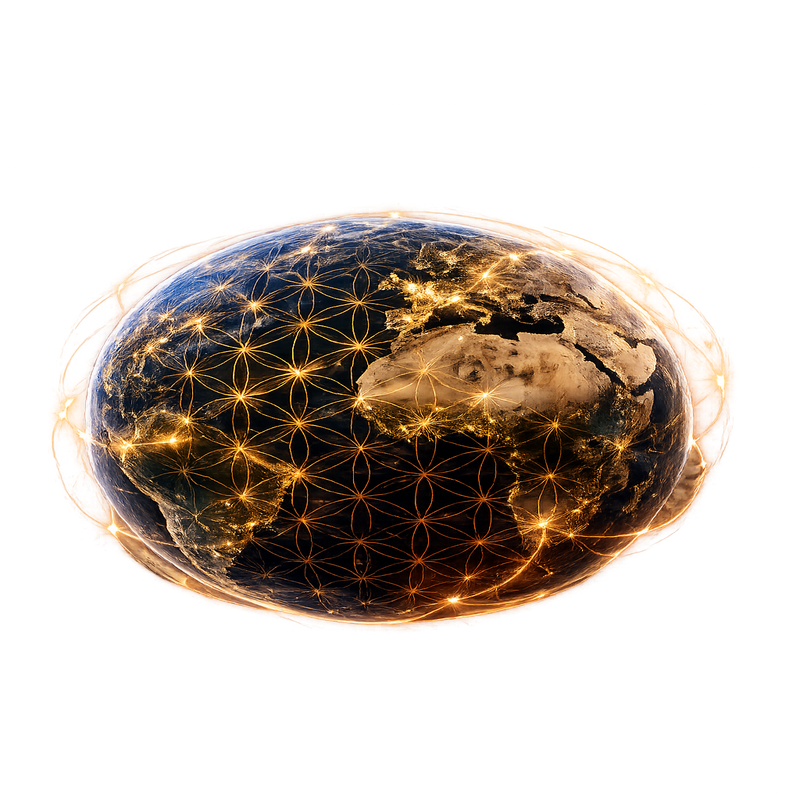
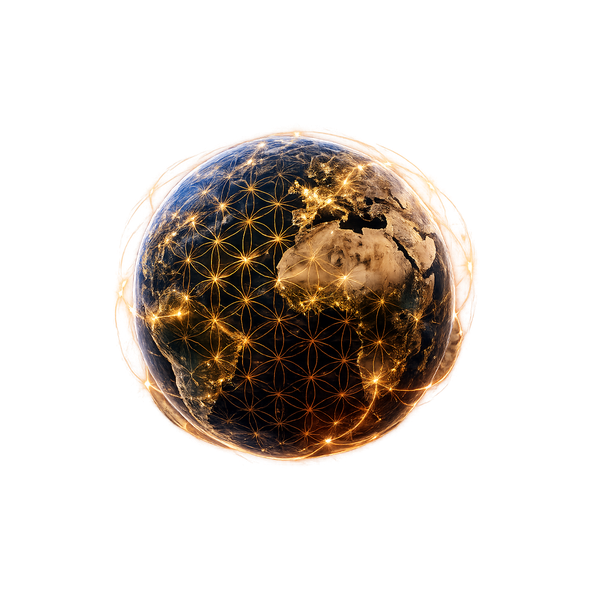
Add files via upload

Changed region(s): [[0.06, 0.21, 0.93, 0.81]]

diff --git a/pages/index.js b/pages/index.js
@@ -14,7 +14,9 @@ return(
 <Nav/>
 <section className={styles.hero}>
 <div className={styles.heroLeft}>
-<img src="/communet_globe.png" alt="Communet" style={{width:'min(360px,80vw)',height:'min(360px,80vw)',objectFit:'contain'}}/>
+<div style={{width:'min(360px,80vw)',height:'min(360px,80vw)',display:'flex',alignItems:'center',justifyContent:'center'}}>
+<img src="/communet_globe.png" alt="Communet" style={{width:'100%',height:'100%',objectFit:'contain'}}/>
+</div>
 </div>
 <div className={styles.heroRight}>
 <div className={styles.eyebrow}>{t('home_eyebrow')}</div>